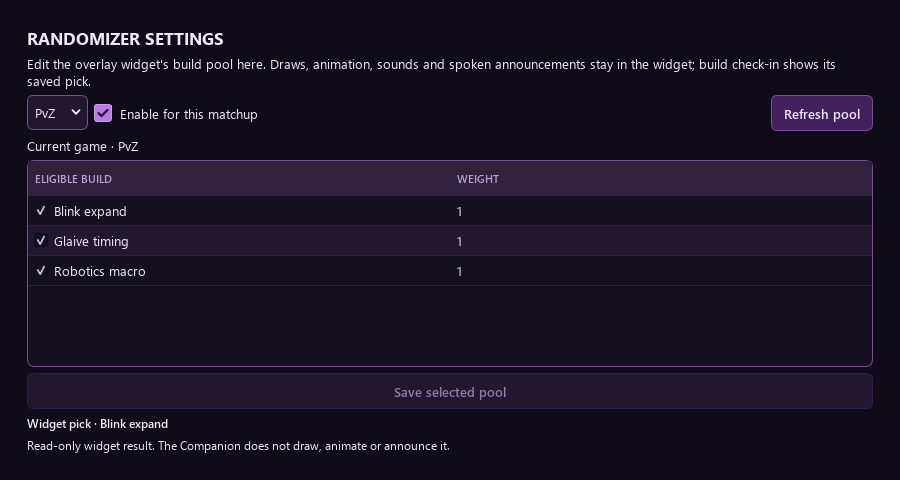
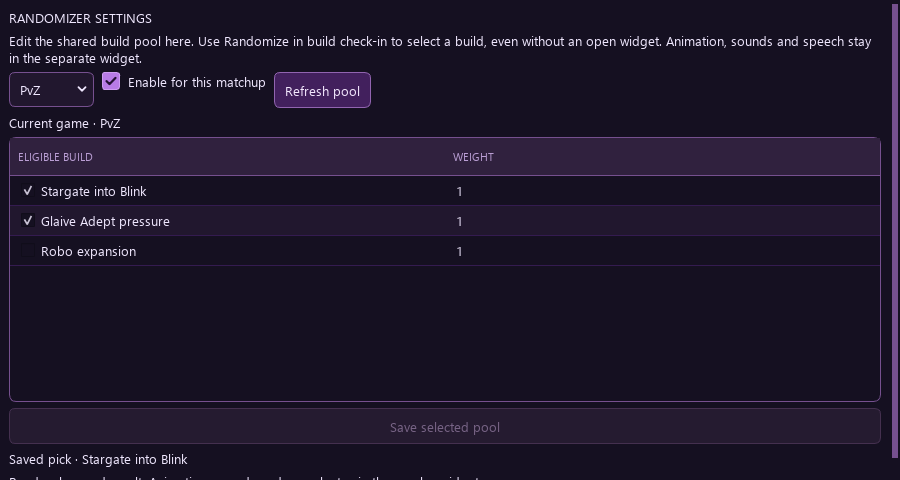
fix(agent): clarify shared Randomizer selection in settings

diff --git a/apps/agent/sc2tools_agent/ui/companion_randomizer.py b/apps/agent/sc2tools_agent/ui/companion_randomizer.py
@@ -1,4 +1,4 @@
-"""Silent pool settings and the overlay widget's persisted pick."""
+"""Silent pool settings and the shared persisted Randomizer pick."""
 
 from __future__ import annotations
 
@@ -107,7 +107,7 @@ def build_companion_randomizer(parent, *, handler, QtCore, QtGui, QtWidgets):
             heading = label("RANDOMIZER SETTINGS")
             heading.setObjectName("companionHeading")
             layout.addWidget(heading)
-            layout.addWidget(label("Edit the overlay widget's build pool here. Draws, animation, sounds and spoken announcements stay in the widget; build check-in shows its saved pick."))
+            layout.addWidget(label("Edit the shared build pool here. Use Randomize in build check-in to select a build, even without an open widget. Animation, sounds and speech stay in the separate widget."))
             row = build_flow_layout(QtCore=QtCore, QtWidgets=QtWidgets)
             self.matchup_select = QtWidgets.QComboBox()
             self.matchup_select.addItems(MATCHUPS)
@@ -347,7 +347,7 @@ def build_companion_randomizer(parent, *, handler, QtCore, QtGui, QtWidgets):
             if not self.pool.topLevelItemCount():
                 self.status.setText("No eligible builds for this matchup. Refresh after adding a build to your account.")
             elif not self._context:
-                self.status.setText("Choose your pool and enable this matchup. The overlay widget draws; build check-in displays its pick.")
+                self.status.setText("Choose your pool and enable this matchup. Use Randomize in build check-in; the overlay widget handles animation and audio.")
 
         def _pool_changed(self, _item, _column):
             if not self._rendering and self._loaded and self._snapshot.get("paired") is True:
@@ -380,7 +380,7 @@ def build_companion_randomizer(parent, *, handler, QtCore, QtGui, QtWidgets):
             elif self._intent.get("declared"):
                 self.result_label.setText("Declared build · " + str(self._intent["declared"].get("name") or "Your chosen build"))
             elif self._intent.get("randomizer"):
-                self.result_label.setText("Widget pick · " + str(self._intent["randomizer"].get("name") or "Saved build"))
+                self.result_label.setText("Saved pick · " + str(self._intent["randomizer"].get("name") or "Saved build"))
             else:
                 self.result_label.setText("No build has been drawn for the current game.")
             if self._status_error or self._busy:
@@ -391,10 +391,10 @@ def build_companion_randomizer(parent, *, handler, QtCore, QtGui, QtWidgets):
                 if self._intent.get("declared"):
                     self.status.setText("Your declared plan takes priority. No random draw replaces it.")
                 elif self._intent.get("randomizer"):
-                    self.status.setText("Read-only widget result. The Companion does not draw, animate or announce it.")
+                    self.status.setText("Read-only saved result. Animation, sounds and speech stay in the overlay widget.")
                 elif self._loaded and self._context and self._matchup_config(self._context[1]).get("enabled") is not True:
                     self.status.setText("The randomizer is off for this matchup. Your saved pool is kept.")
                 elif self._loaded:
-                    self.status.setText("Waiting for the overlay widget's draw. Its saved pick appears in build check-in; no native randomizer runs.")
+                    self.status.setText("Use Randomize in build check-in to select a build. The overlay widget is optional for animation and audio.")
 
     return CompanionRandomizer()

diff --git a/apps/agent/sc2tools_agent/ui/companion_page.py b/apps/agent/sc2tools_agent/ui/companion_page.py
@@ -621,7 +621,7 @@ def build_companion_page(parent, *, handler, QtCore, QtGui, QtWidgets,
             controls = QtWidgets.QVBoxLayout()
             self.preference_checks = {}
             assistance_tooltips = {
-                "overlaysEnabled": "Master switch for native pinned panels, spoken scouting, build selectors and Ghost. Off hides or stops native assistance; replay syncing and browsing continue. Randomizer draws, animation and audio stay in the separate overlay widget, controlled by its own settings.",
+                "overlaysEnabled": "Master switch for native pinned panels, spoken scouting, build selectors and Ghost. Off hides or stops native assistance; replay syncing and browsing continue. Randomize selects a shared build from check-in. Its animation and audio stay in the separate overlay widget, controlled by its own settings.",
                 "opponentOverlay": "Keep the current opponent card above other windows during a game, even when the main window is minimized. Requires In-game assistance and a mode that allows the opponent panel.",
                 "scoutingOverlay": "Keep previous encounters, build-vs-build and recorded replay timings above other windows during a game. Historical scouting only—not live enemy tracking. Requires In-game assistance and an allowed mode.",
             }

diff --git a/apps/agent/tests/test_companion_page.py b/apps/agent/tests/test_companion_page.py
@@ -155,7 +155,8 @@ def test_assistance_controls_explain_saved_choices_and_historical_pins(companion
     master_tip = page.preference_checks["overlaysEnabled"].toolTip()
     assert "replay syncing and browsing continue" in master_tip
     assert "Off hides or stops native assistance" in master_tip
-    assert "Randomizer draws, animation and audio stay in the separate overlay widget" in master_tip
+    assert "Randomize selects a shared build from check-in" in master_tip
+    assert "Its animation and audio stay in the separate overlay widget" in master_tip
     assert "controlled by its own settings" in master_tip
     opponent_tip = page.preference_checks["opponentOverlay"].toolTip()
     assert "above other windows" in opponent_tip and "mode" in opponent_tip

diff --git a/apps/agent/tests/test_companion_randomizer.py b/apps/agent/tests/test_companion_randomizer.py
@@ -102,7 +102,7 @@ def test_only_observes_the_widget_pick_and_cannot_draw_or_redraw(panel):
         wait_until(app, lambda: not widget._busy)
     widget._request("roll", {"action": "randomizer_roll"})
     assert not [call for call in state["calls"] if call["action"] == "randomizer_roll"]
-    assert "Read-only widget result" in widget.status.text()
+    assert "Read-only saved result" in widget.status.text()
 
 
 def test_busy_read_and_unchanged_master_never_launch_a_native_draw(panel):
